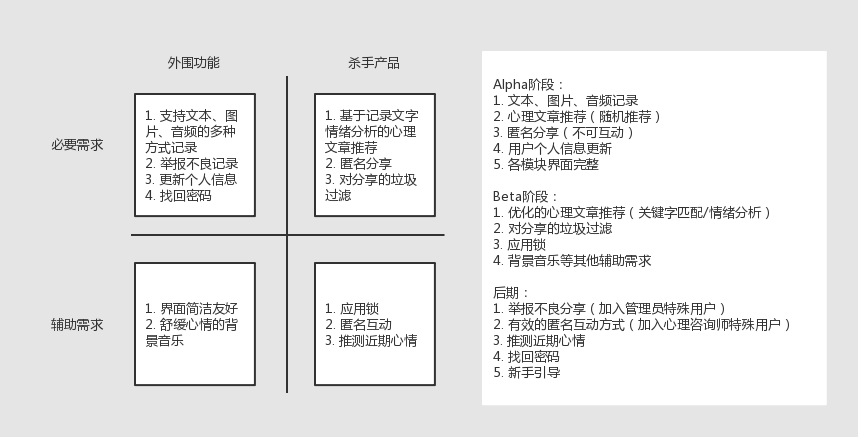
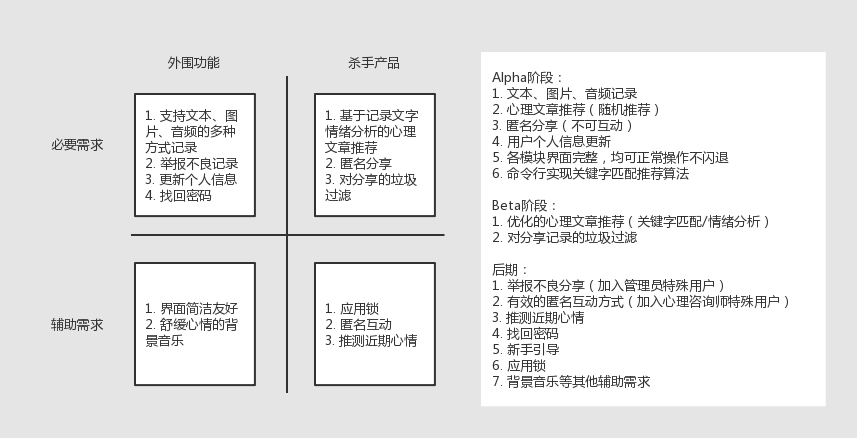
Update images and requirements specification
Update classes.png and requirements.png;
Remove admin content in requirements specification;

diff --git a/Docs/requirements_specification.md b/Docs/requirements_specification.md
@@ -334,7 +334,7 @@
 #### 3.4.2 安全性
 
 * 故障处理：系统应能够记录错误信息、生成错误日志，并及时恢复现场
-* 访问控制：区分普通用户和管理员用户，分别设置访问权限
+* 访问控制：对普通用户设置访问权限，防止访问越界
 * 安全存储：数据库保存在服务器端，定期备份，确保数据不丢失
 
 #### 3.4.3 可维护性
